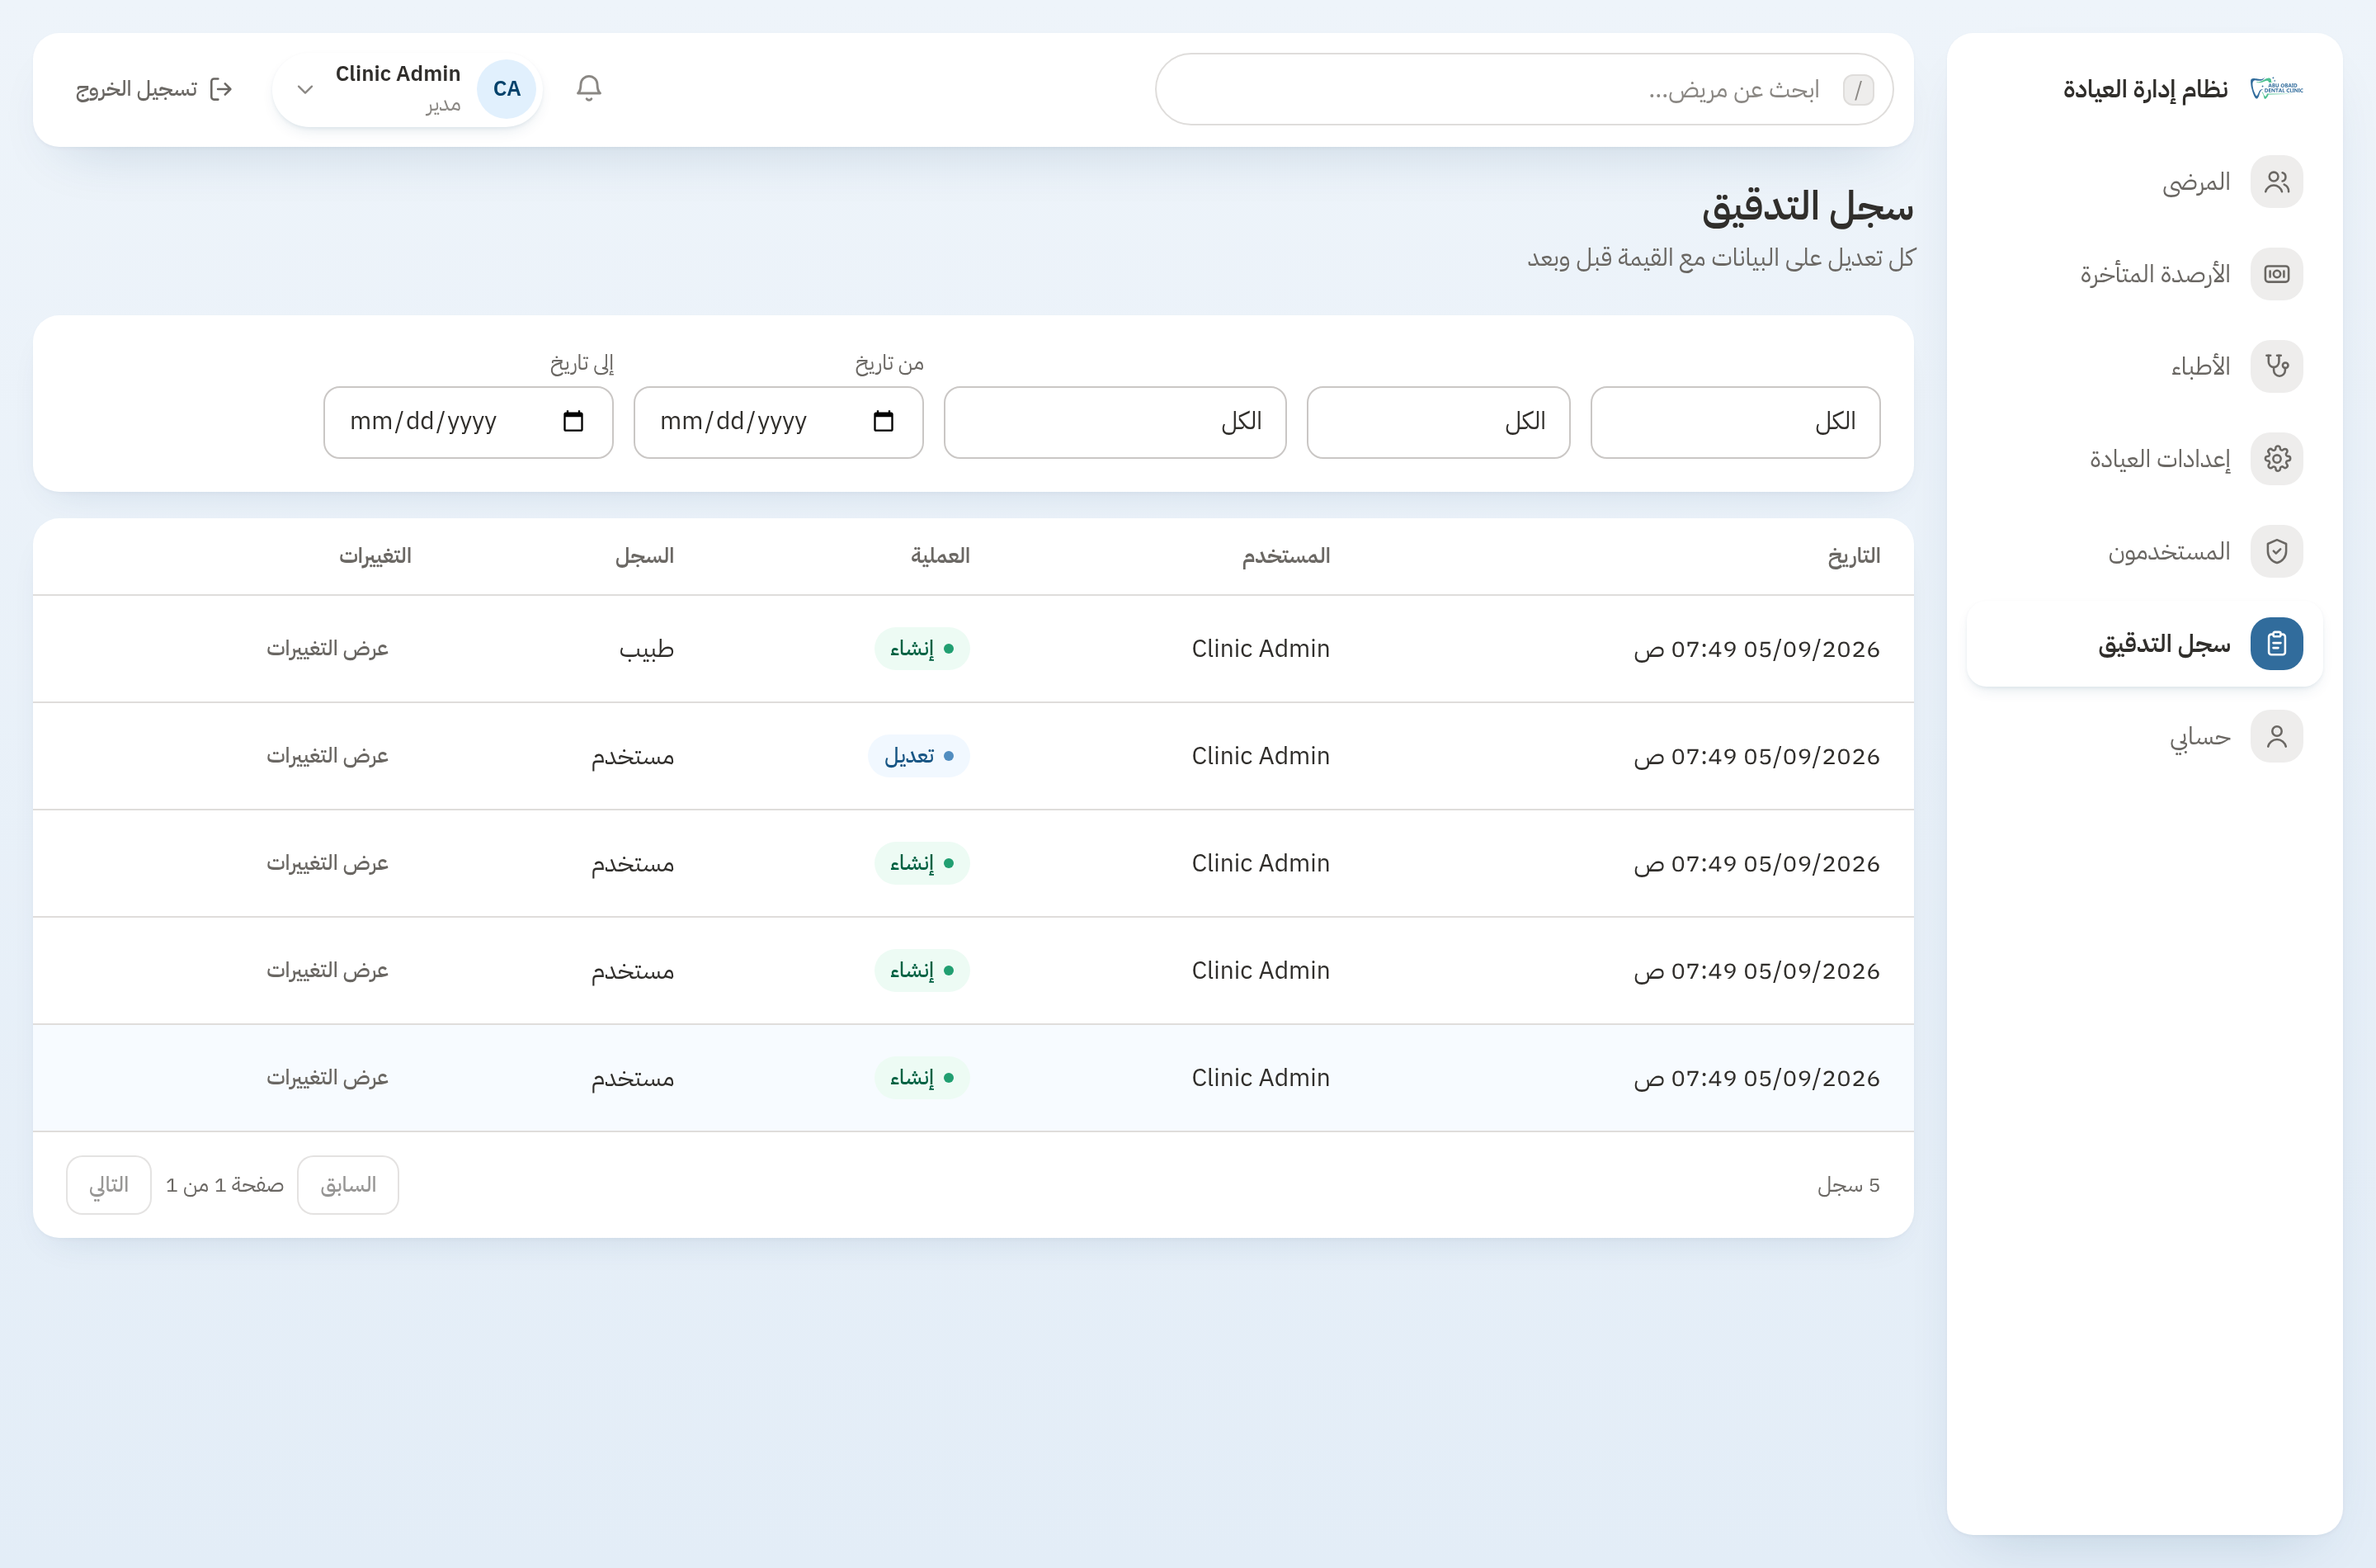
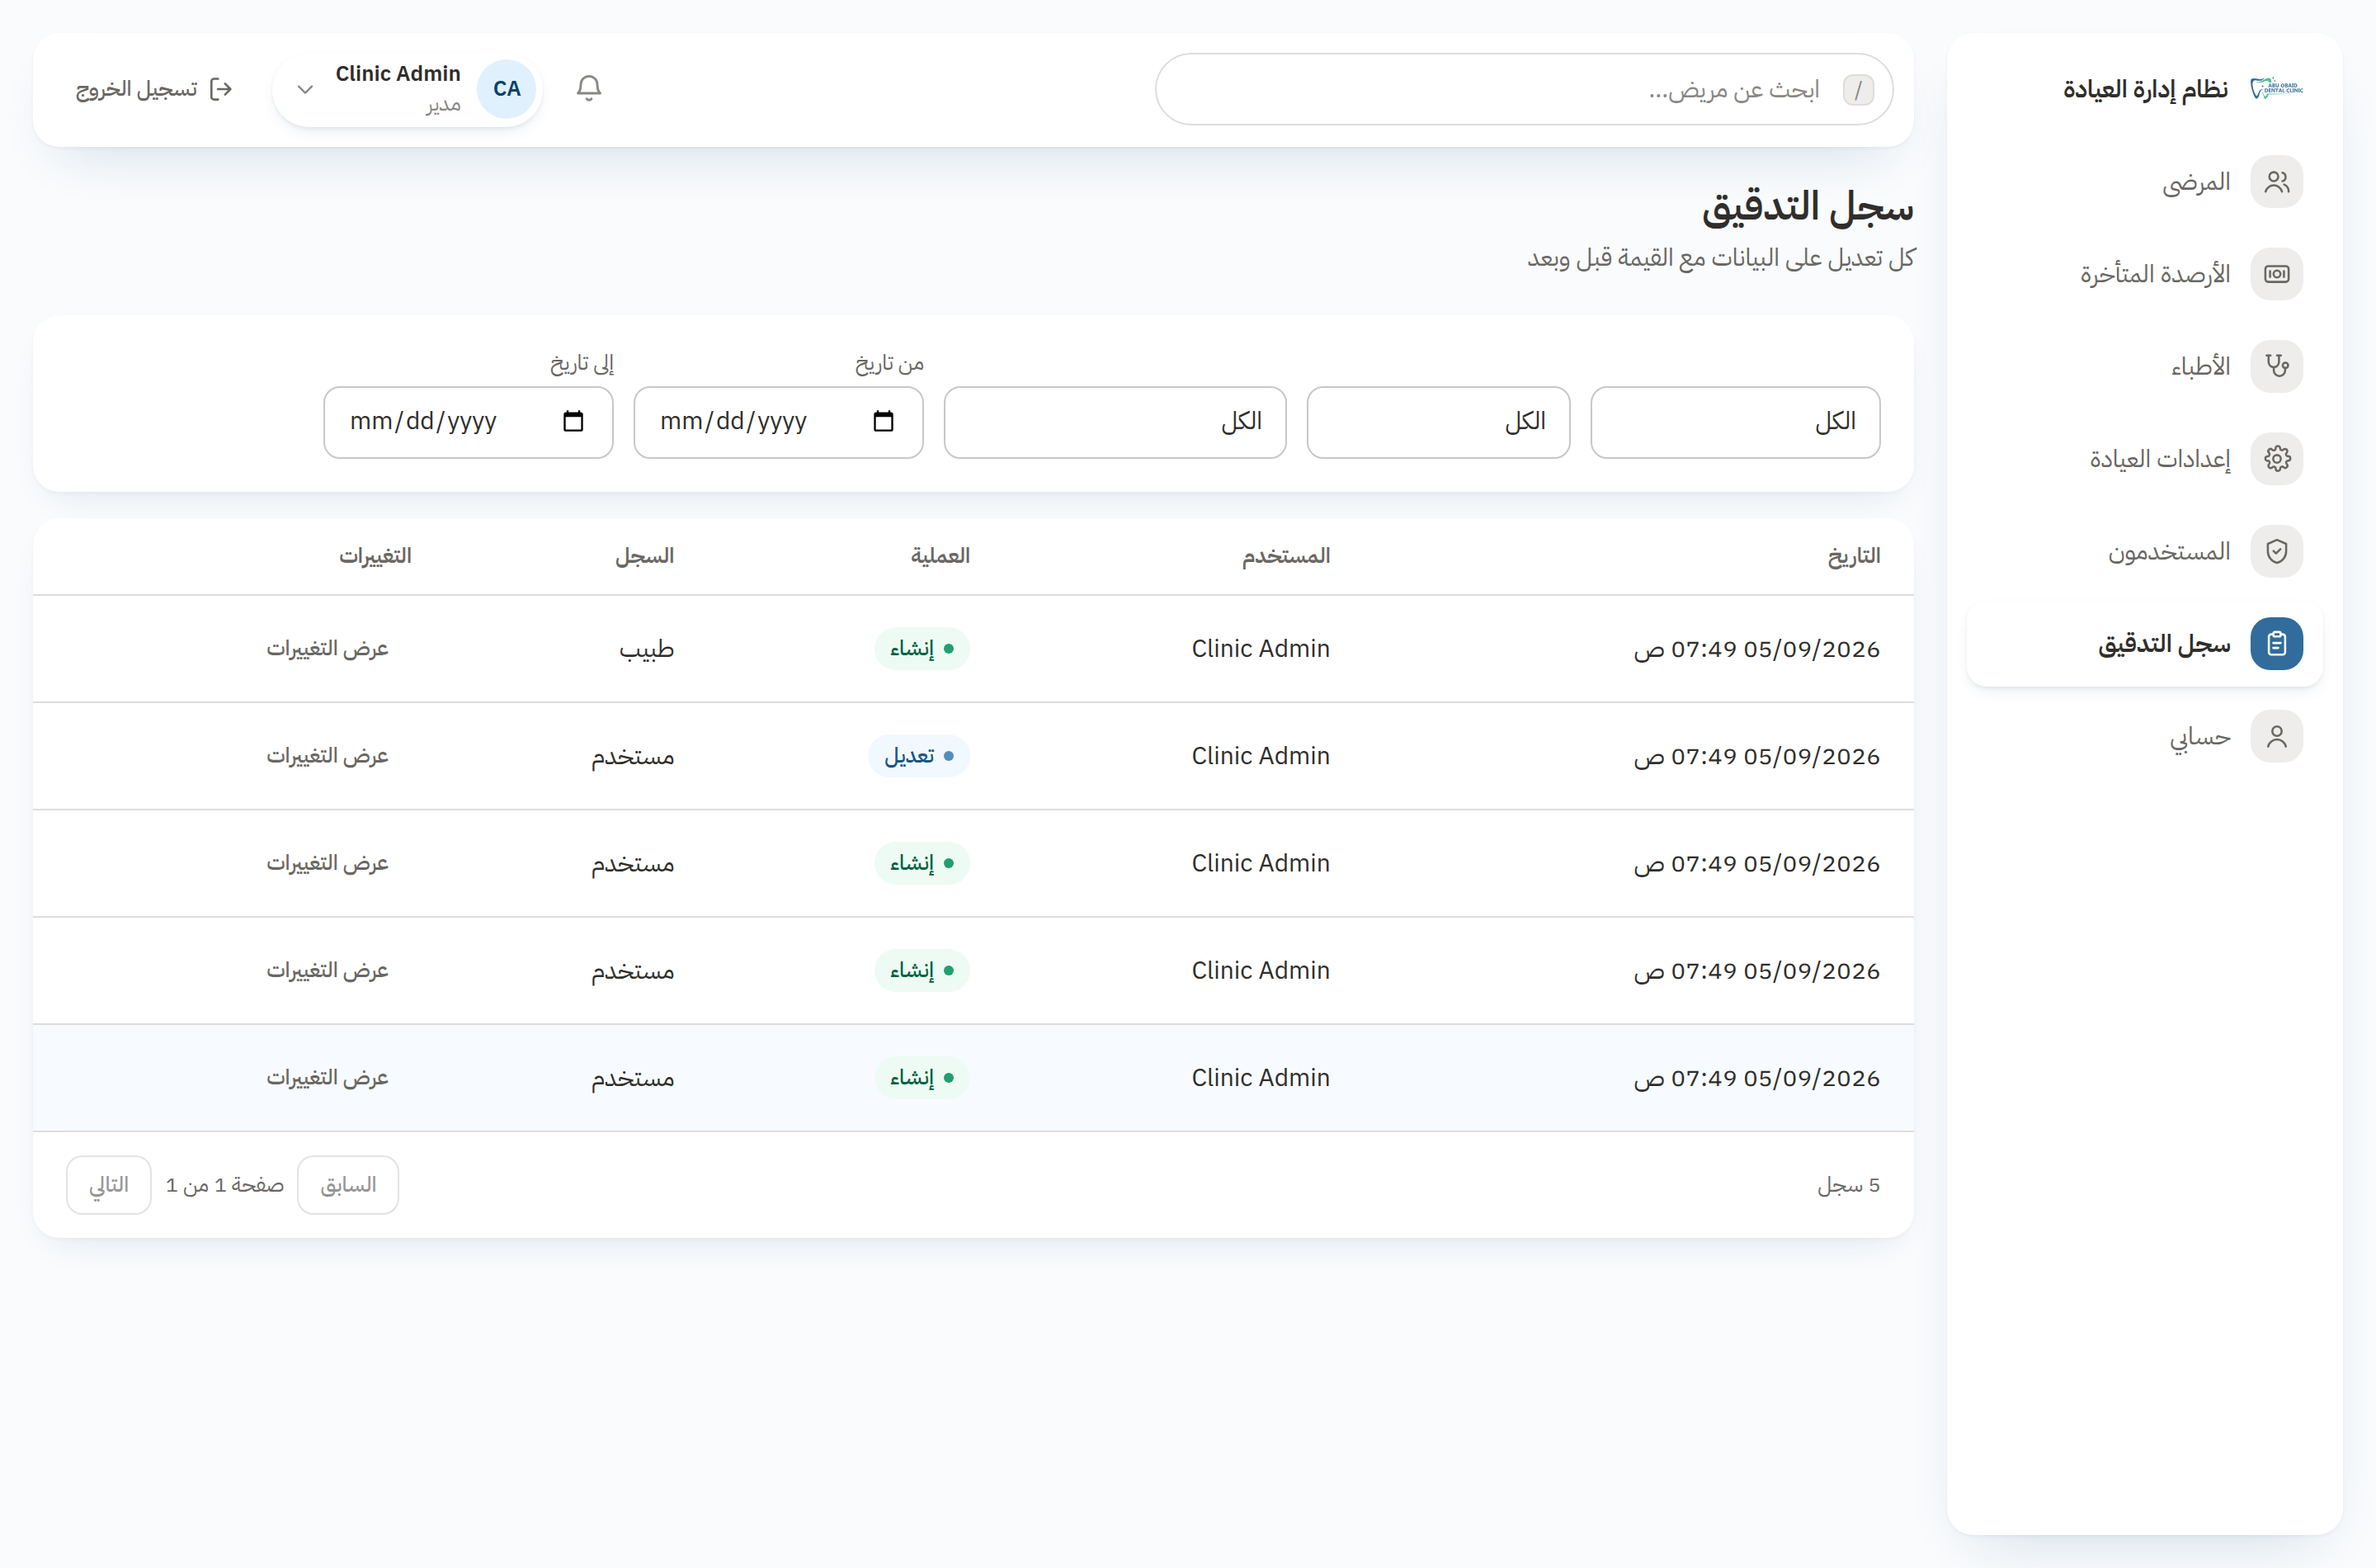
refactor(web): make the page ground off-white, move the tint inside cards
The ground was a wash between two brand-tinted blues. Off-white instead,
flat: at this lightness a gradient has nothing left to say — its two ends
would differ by less than the banding of an 8-bit display — so it is one
colour and the cards' shadows do the separating.

`canvas` keeps only a whisper of the logo blue's hue, which is what stops
it clashing with the primary-tinted shadows sitting on top of it.

The tint is not gone, it moved. `bg-canvas` had been doing two unrelated
jobs: the page ground, and the block nested inside a white card — a day's
opening hours, a plan item, one row of a diff. Once the ground goes near
white those blocks would have vanished into the card around them, so they
now have their own token, `inset`, which carries the chroma the page used
to. Tinting a nested block rather than giving it another border is what
keeps a dense screen calm, and it is worth more there than on the page.

`sunken` is unchanged and still neutral: disabled controls and the track
behind a segmented control are absences of surface, not groupings.

Claude-Session: https://claude.ai/code/session_01RLM9VLuVyu51rviH9ueadY

diff --git a/apps/web/src/theme.css b/apps/web/src/theme.css
@@ -107,19 +107,22 @@
   /*
    * Surfaces, lightest to deepest.
    *
-   * The app sits on a tinted ground rather than a gray one: `canvas` and
-   * `canvas-deep` are the two ends of the page gradient, and every piece of
-   * content floats above them on white `surface` cards. Both were derived by
-   * taking the intended lightness and chroma onto the logo blue's own hue
-   * (OKLCH −114.10°), which is what makes the ground read as *this* brand's
-   * blue at 4% chroma rather than as a generic cool gray.
+   * `canvas` is the page ground: an off-white, flat, with only a whisper of
+   * the logo blue's hue left in it (OKLCH −114.10° at 0.4% chroma). It is
+   * barely a colour, which is the point — content floats above it on white
+   * `surface` cards, and the tinted shadows are what separate the two.
    *
-   * `sunken` stays neutral: it is for insets and disabled controls, which are
-   * absences of surface rather than part of the ground.
+   * `inset` is where the brand tint went. A block nested inside a white card
+   * — a day's hours, a plan item, one row of a diff — needs to be visibly
+   * *inside* something, and doing that with a tint rather than another border
+   * is what keeps the app calm. It carries the chroma the page used to.
+   *
+   * `sunken` stays neutral: it is for disabled controls and the tracks behind
+   * segmented controls, which are absences of surface rather than groupings.
    */
   --color-surface: #ffffff;
-  --color-canvas: #eef4fa;
-  --color-canvas-deep: #e3edf7;
+  --color-canvas: #f9fbfd;
+  --color-inset: #eef4fa;
   --color-sunken: var(--color-neutral-100);
 
   /*

diff --git a/apps/web/src/index.css b/apps/web/src/index.css
@@ -35,17 +35,16 @@ body,
 }
 
 /*
- * The page ground: a soft vertical wash between the two tinted blues, fixed so
- * it does not slide under a long list. `background-color` is set as well as the
- * gradient — a gradient is a background *image*, and it is the colour that
- * shows while the paint is still arriving and that the browser uses for
- * overscroll.
+ * The page ground: one flat off-white.
+ *
+ * It was a vertical wash between two tinted blues. At this lightness a
+ * gradient has nothing left to say — the two ends would differ by less than
+ * the banding of an 8-bit display — so it is a single colour, and the cards'
+ * shadows do the separating.
  */
 body {
   margin: 0;
   background-color: var(--color-canvas);
-  background-image: linear-gradient(180deg, var(--color-canvas) 0%, var(--color-canvas-deep) 100%);
-  background-attachment: fixed;
   color: var(--color-ink);
   font-family: var(--font-sans);
   line-height: 1.6;

diff --git a/apps/web/src/features/patients/chart/tooth-panel.tsx b/apps/web/src/features/patients/chart/tooth-panel.tsx
@@ -90,7 +90,7 @@ export function ToothPanel({
           the history below it.
         */}
         {summary && (
-          <section className="rounded-card bg-canvas p-4 shadow-pop">
+          <section className="rounded-card bg-inset p-4 shadow-pop">
             <div className="flex items-center gap-3">
               <span
                 dir="ltr"
@@ -202,7 +202,7 @@ function ProcedureRow({
   const { t } = useTranslation();
 
   return (
-    <li className="rounded-panel bg-canvas p-3">
+    <li className="rounded-panel bg-inset p-3">
       <div className="flex items-start justify-between gap-2">
         <span className="text-value font-medium text-ink">
           {name ?? t('chart.panel.procedure')}

diff --git a/apps/web/src/features/patients/visits/visits-tab.tsx b/apps/web/src/features/patients/visits/visits-tab.tsx
@@ -181,7 +181,7 @@ export function VisitsTab({ patientId }: { patientId: string }): JSX.Element {
                     {visitProcedures.map((procedure) => (
                       <li
                         key={procedure.id}
-                        className="flex flex-wrap items-center justify-between gap-2 rounded-md bg-canvas px-3 py-2"
+                        className="flex flex-wrap items-center justify-between gap-2 rounded-md bg-inset px-3 py-2"
                       >
                         {/* Flex, not a margin: the tooth number is an LTR
                             isolate inside RTL text, and a gap is the only

diff --git a/apps/web/src/features/patients/chart/tooth-attachments.tsx b/apps/web/src/features/patients/chart/tooth-attachments.tsx
@@ -47,7 +47,7 @@ function AttachmentThumbnail({ attachment }: { attachment: Attachment }): JSX.El
 
   return (
     <figure className="flex flex-col gap-1">
-      <div className="flex aspect-square items-center justify-center overflow-hidden rounded-control border border-line bg-canvas">
+      <div className="flex aspect-square items-center justify-center overflow-hidden rounded-control border border-line bg-inset">
         {isPending && <span className="text-label text-ink-subtle">{t('common.loading')}</span>}
 
         {isError && <span className="text-label text-danger-500">{t('errors.generic')}</span>}

diff --git a/apps/web/src/features/patients/treatment-plans/treatment-plans-tab.tsx b/apps/web/src/features/patients/treatment-plans/treatment-plans-tab.tsx
@@ -254,7 +254,7 @@ export function TreatmentPlansTab({
                   {items.map((item, index) => (
                     <li
                       key={item.id}
-                      className="flex flex-wrap items-center justify-between gap-2 rounded-md bg-canvas px-3 py-2"
+                      className="flex flex-wrap items-center justify-between gap-2 rounded-md bg-inset px-3 py-2"
                     >
                       <span className="flex items-center gap-2 text-value text-ink">
                         <span className="text-label text-ink-subtle" dir="ltr">

diff --git a/apps/web/src/features/patients/chart/surface-selector.tsx b/apps/web/src/features/patients/chart/surface-selector.tsx
@@ -149,7 +149,7 @@ export function SurfaceSelector({
                 'rounded-control border px-2 py-1 text-label font-medium transition-colors',
                 selected
                   ? 'border-primary-600 bg-primary-600 text-ink-inverse'
-                  : 'border-line-strong bg-surface text-ink hover:bg-canvas',
+                  : 'border-line-strong bg-surface text-ink hover:bg-inset',
                 readOnly && 'cursor-default opacity-90 hover:bg-surface',
               )}
             >

diff --git a/apps/web/src/features/patients/imaging/imaging-tab.tsx b/apps/web/src/features/patients/imaging/imaging-tab.tsx
@@ -244,7 +244,7 @@ function ImageCard({
 
   return (
     <figure className="flex flex-col gap-1.5 rounded-card bg-surface shadow-card p-2">
-      <div className="flex aspect-square items-center justify-center overflow-hidden rounded-md bg-canvas">
+      <div className="flex aspect-square items-center justify-center overflow-hidden rounded-md bg-inset">
         {isPending && <span className="text-label text-ink-subtle">{t('common.loading')}</span>}
 
         {data?.downloadUrl &&

diff --git a/apps/web/src/features/audit/value-diff.tsx b/apps/web/src/features/audit/value-diff.tsx
@@ -79,7 +79,7 @@ export function ValueDiff({ oldValue, newValue }: ValueDiffProps): JSX.Element {
     <div className="overflow-x-auto">
       <table className="w-full border-collapse text-value">
         <thead>
-          <tr className="bg-canvas">
+          <tr className="bg-inset">
             <th
               scope="col"
               className="px-3 py-2 text-start text-label font-semibold text-ink-muted"

diff --git a/apps/web/src/components/schedule-editor.tsx b/apps/web/src/components/schedule-editor.tsx
@@ -44,7 +44,7 @@ export function ScheduleEditor({
         return (
           <div
             key={weekday}
-            className="rounded-panel bg-canvas p-3"
+            className="rounded-panel bg-inset p-3"
             data-testid={`schedule-day-${weekday}`}
           >
             <div className="flex flex-wrap items-center justify-between gap-2">

diff --git a/apps/web/src/theme.stories.tsx b/apps/web/src/theme.stories.tsx
@@ -125,7 +125,9 @@ export const Semantic: Story = {
         {[
           '--color-surface',
           '--color-canvas',
+          '--color-inset',
           '--color-sunken',
+          '--color-selected',
           '--color-line',
           '--color-line-strong',
           '--color-ink',

diff --git a/README.md b/README.md
@@ -328,16 +328,21 @@ Colour is only part of the system. `theme.css` also holds the geometry, the
 shadows and the type scale, so "looks like the rest of the app" is something a
 component says in one class.
 
-Content never touches the page ground. The ground is a soft vertical wash between
-two brand-tinted blues (`canvas` → `canvas-deep`), and everything else floats
-above it on white cards. Those two blues are not picked by eye either: they are
-the intended lightness and chroma taken onto the logo blue's own OKLCH hue, which
-is why the page reads as _this_ brand's blue rather than as a generic cool gray.
+Content never touches the page ground. The ground is a flat off-white (`canvas`)
+carrying only a whisper of the logo blue's hue, and everything else floats above
+it on white `surface` cards — the shadows are what separate the two.
+
+The brand tint did not disappear, it moved. `inset` is the tinted block used for
+anything nested _inside_ a card: a day's opening hours, a plan item, one row of a
+diff. Doing that with a tint rather than another border is what keeps a dense
+screen calm, and it is where the ground's old colour still earns its keep.
+`sunken` stays neutral, for disabled controls and the track behind a segmented
+control — absences of surface rather than groupings.
 
 Radii step down with nesting so a list item never fights the card around it —
 card `16px` → panel `12px` → control `10px` → pill. Shadows are large-blur,
-low-opacity and **tinted with the primary**: a gray shadow on a blue ground reads
-as dirt, a blue one reads as depth. Each is a 1px contact edge plus a wide
+low-opacity and **tinted with the primary**, not black: a gray shadow reads as
+dirt, a faintly blue one reads as depth. Each is a 1px contact edge plus a wide
 diffuse pool.
 
 The repeating patterns are components, not conventions:
